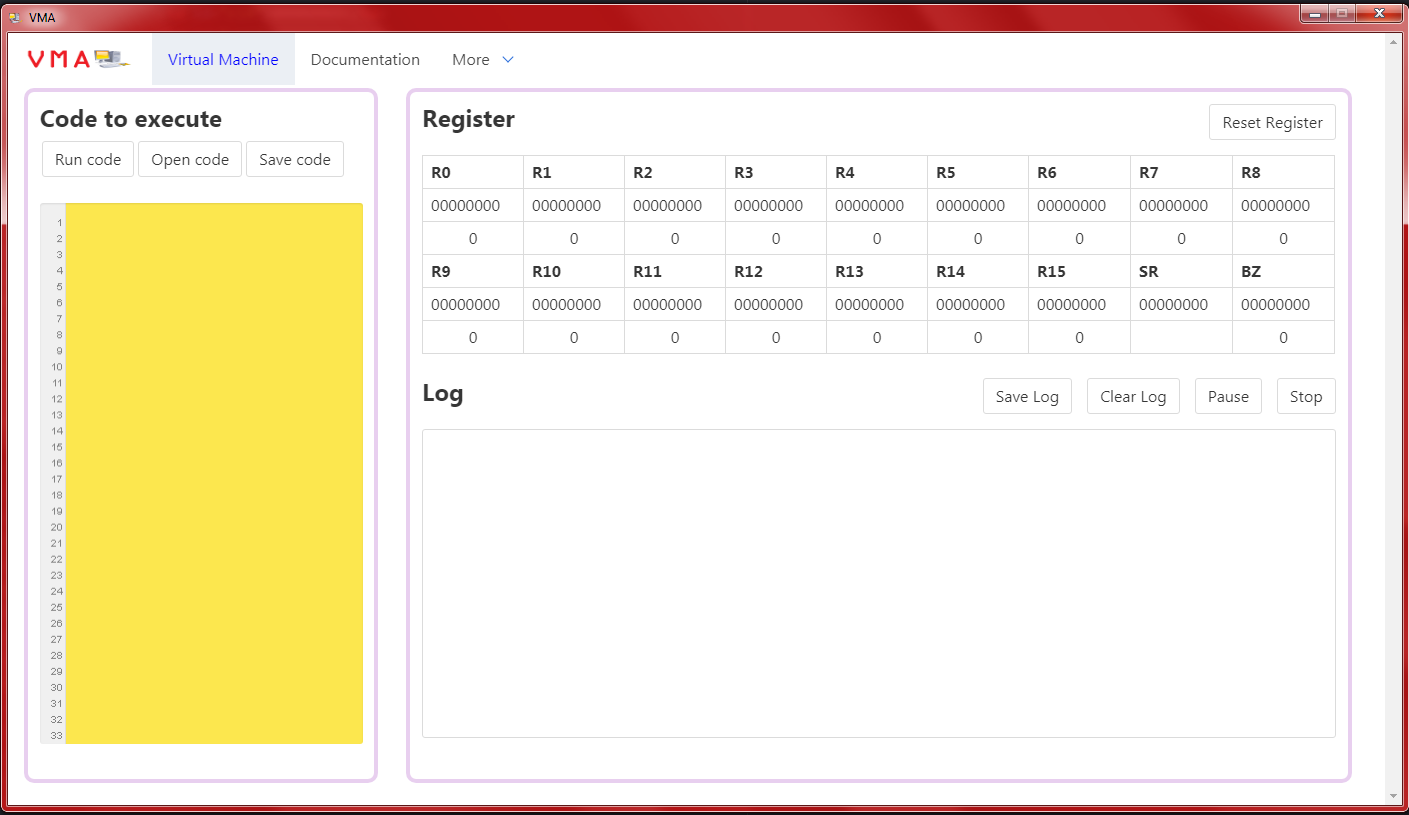
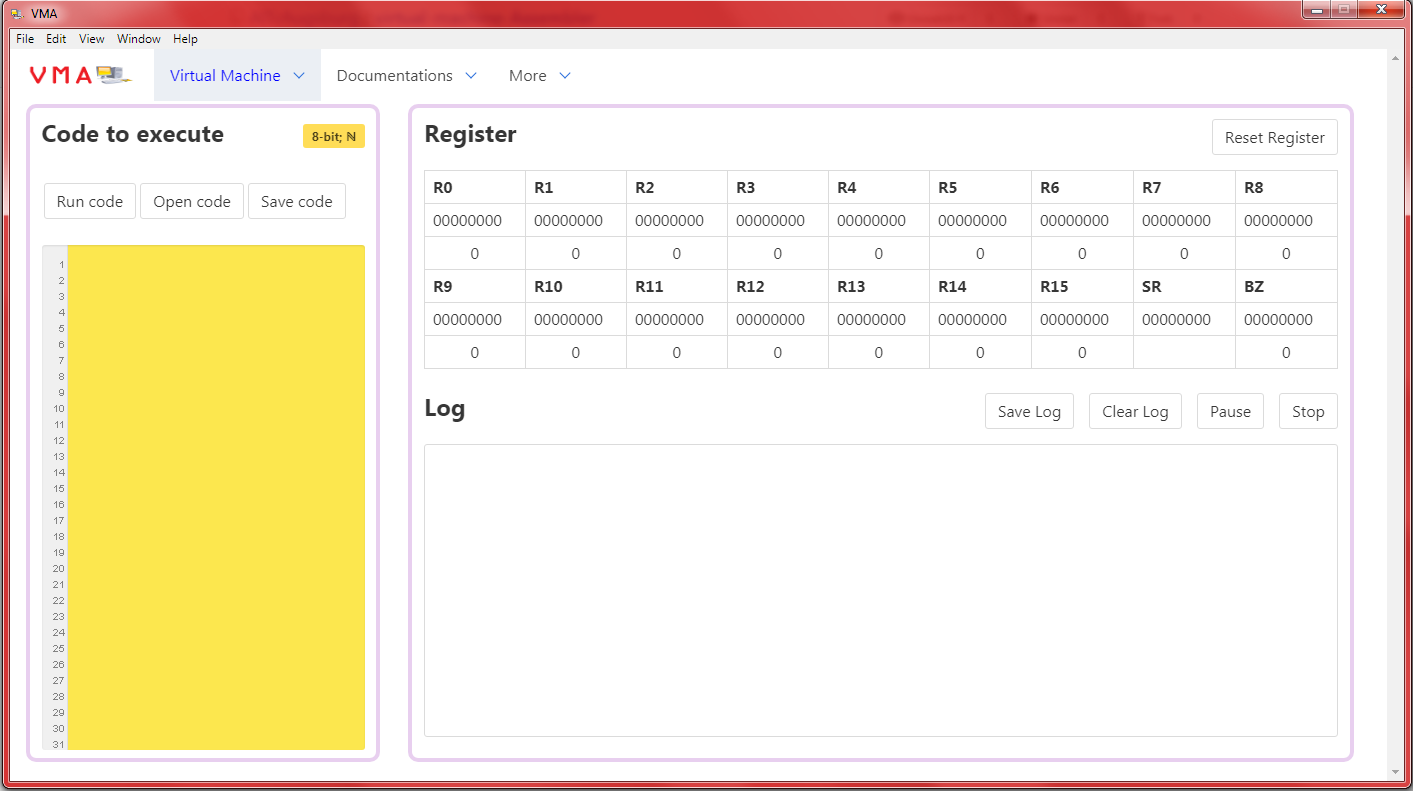
Update example.png

Changed region(s): [[0.0, 0.0, 1.0, 1.0], [0.2811, 0.4551, 0.3435, 0.5461]]

diff --git a/README.md b/README.md
@@ -6,24 +6,21 @@ A virtual machine to learn the programming language Assembler. Written with [Ele
 
 [Download the latest release here!](https://github.com/AlTrAugsburg/virtual-machine-Assembler/releases)
 
-## What can you do on Version 1.0.0?
+## What can you do on Version 1.1.0?
 
 * Read .lasm files
 * Save code as .lasm file
 * Save log
 * Execute code
 * Clear register
+* Choose between to 8-bit machines, one supports numbers from -128 to 127, the other from 0 to 255
 
-## What is new in Version 1.0.1?
+## Fixed Issues
 
-* Added SR which stores the flag of the register R0
-* If there should be a negative number loaded in R0, instead R0 gets flagged and is set to 0
-* Same procedure with overflow
-* Bug (see Issue #1) was fixed
+* The issues #1 and #2 should make no problem in this version
 
 ## What's coming next?
 
-* There will be modes for the machine. One will support numbers from -127 to 127, the other will support numbers from 0 to 255
-* Maybe a new mode for the code area
+* A new mode for the code area
 
 **Author: Albert Traut**
